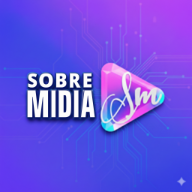
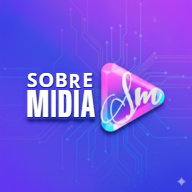
fix(marca): capa/PWA com o botão joia nítido e idêntico ao do ícone original (recortado da camada de 432 px e alinhado sobre a arte) e o nome branco nítido em Open Sans Bold, sem a sobra preta exagerada (contorno fino e suave como na original); Player 5.8.21 de TESTE e ROM v1.13 (F-216)

Changed region(s): [[0.125, 0.375, 0.5, 0.625], [0.7188, 0.4688, 0.75, 0.5], [0.5312, 0.625, 0.5625, 0.6562]]

diff --git a/scripts/marca/realce-capa-pwa.html b/scripts/marca/realce-capa-pwa.html
@@ -39,11 +39,11 @@ async function rodar() {
   window.pronto = true;
 }
 // ---------------------------------------------------------------- reconstrução do modelo 2 (PWA / capa)
-// fundo roxo com circuito e botão joia = os pixels da original (cores e textura iguais), ampliados com qualidade e com um
-// realce leve de nitidez no botão; o nome branco borrado é refeito nítido nas fontes medidas (SOBRE = Open Sans
-// ExtraBold, MIDIA = Saira Extra Condensed ExtraBold), cada letra na caixa da letra original, com o contorno e a sombra
-// azul-marinho da original
-window.mascaraNome = (escala = 1, fonteS = '800 400px "Open Sans"', fonteM = '800 400px "Saira Extra Condensed"') => {
+// fundo roxo com circuito = os pixels da original (cores e textura iguais); botão joia = o do ícone original (abaixo);
+// o nome branco borrado é refeito nítido nas fontes medidas (SOBRE = Open Sans Bold, 81% de coincidência — o ExtraBold
+// dava 72% —; MIDIA = Saira Extra Condensed ExtraBold), cada letra na caixa da letra original, com o contorno fino e a
+// sombra suave azul-marinho da original (o nome borrado antigo é apagado com a cor do fundo em volta)
+window.mascaraNome = (escala = 1, fonteS = '700 400px "Open Sans"', fonteM = '800 400px "Saira Extra Condensed"') => {
   const W = N * escala, c = canvas(W, W), x = c.getContext('2d'); x.fillStyle = '#fff';
   [['SOBRE', fonteS], ['MIDIA', fonteM]].forEach(([p, f]) => p.split('').forEach((ch, i) => { const b = CX[p][i]; x.save(); x.font = f; const m = x.measureText(ch);
     const lw = m.actualBoundingBoxLeft + m.actualBoundingBoxRight, lh = m.actualBoundingBoxAscent + m.actualBoundingBoxDescent;
@@ -53,18 +53,40 @@ window.mascaraNome = (escala = 1, fonteS = '800 400px "Open Sans"', fonteM = '80
 const tingir = (m, cor) => { const c = canvas(m.width, m.height), x = c.getContext('2d'); x.drawImage(m, 0, 0); x.globalCompositeOperation = 'source-in'; x.fillStyle = cor; x.fillRect(0, 0, c.width, c.height); return c; };
 const dilatar = (m, r) => { const c = canvas(m.width, m.height), x = c.getContext('2d'); x.filter = `blur(${r / 2}px)`; x.drawImage(m, 0, 0); x.filter = 'none';
   const im = x.getImageData(0, 0, c.width, c.height); for (let i = 3; i < im.data.length; i += 4) im.data[i] = Math.min(255, im.data[i] * 4); x.putImageData(im, 0, 0); return c; };
-window.AJ = { contorno: 9, sombraX: 2, sombraY: 5, borrao: 3, aro: 5, nitidezBotao: 0.6 };
-window.pwaRefeito = (escala = 2) => {
-  const A = window.AJ, W = N * escala, c = canvas(W, W), x = c.getContext('2d'); x.imageSmoothingQuality = 'high'; x.drawImage(PWA, 0, 0, W, W);
-  if (A.nitidezBotao > 0) { const bx = 525 * escala, by = 315 * escala, bw = 370 * escala, bh = 400 * escala;
-    const b = canvas(bw, bh), xb = b.getContext('2d'); xb.filter = `blur(${2.2 * escala}px)`; xb.drawImage(c, bx, by, bw, bh, 0, 0, bw, bh);
-    const o = x.getImageData(bx, by, bw, bh), bl = xb.getImageData(0, 0, bw, bh).data;
-    for (let i = 0; i < o.data.length; i += 4) for (let k = 0; k < 3; k++) o.data[i + k] = Math.max(0, Math.min(255, o.data[i + k] + A.nitidezBotao * (o.data[i + k] - bl[i + k])));
-    x.putImageData(o, bx, by); }
+// botão joia NÍTIDO: o mesmo botão do ícone original (camada da frente de 432 px, a versão de maior resolução dele),
+// recortado pelo contorno da joia (coincide 83% com os pixels rosa/branco/ciano dela) e posto exatamente sobre o botão
+// borrado da arte do PWA (alinhado por mínima diferença de cor: escala 1,795, deslocamento 308,5/131 em pontos de 1024)
+const FG = new Image(); FG.src = 'original-icone-frente.webp';
+const GEMA = { V: [[129.5, 93.8], [128, 339.9], [344.6, 213.7]], d: [61, 67, 62] }, ALINHA = { s: 1.795, ox: 308.5, oy: 131 };
+function caminhoGema(x, V, d, esc = 1, ox = 0, oy = 0) { x.beginPath();
+  for (let i = 0; i < 3; i++) { const p0 = V[(i + 2) % 3], p1 = V[i], p2 = V[(i + 1) % 3];
+    const v1 = [p0[0] - p1[0], p0[1] - p1[1]], v2 = [p2[0] - p1[0], p2[1] - p1[1]], l1 = Math.hypot(...v1), l2 = Math.hypot(...v2);
+    const a = [p1[0] + v1[0] / l1 * d[i], p1[1] + v1[1] / l1 * d[i]], b = [p1[0] + v2[0] / l2 * d[i], p1[1] + v2[1] / l2 * d[i]];
+    const T = (p) => [ox + p[0] * esc, oy + p[1] * esc];
+    if (i === 0) x.moveTo(...T(a)); else x.lineTo(...T(a)); x.quadraticCurveTo(...T(p1), ...T(b)); } x.closePath(); }
+// nome: contorno fino e sombra suave azul-marinho como na original (a 1ª versão tinha um contorno grosso demais)
+window.AJ = { borracha: 22, contorno: 5, sombraX: 1.5, sombraY: 4, borrao: 4, alfaSombra: 0.8, aro: 2, alfaAro: 0.55 };
+// a arte é montada já no tamanho final (escala 1 = 1024 px): nada é ampliado depois, então botão e nome ficam nítidos
+window.pwaRefeito = (escala = 0.5) => {
+  const A = window.AJ, W = Math.round(N * escala), c = canvas(W, W), x = c.getContext('2d'); x.imageSmoothingQuality = 'high'; x.drawImage(PWA, 0, 0, W, W);
+  const e = ALINHA.s * escala, ox = ALINHA.ox * escala, oy = ALINHA.oy * escala;
+  const joia = canvas(W, W), xj = joia.getContext('2d'); xj.imageSmoothingQuality = 'high';
+  caminhoGema(xj, GEMA.V, GEMA.d, e, ox, oy); xj.fillStyle = '#fff'; xj.fill();
+  xj.globalCompositeOperation = 'source-in'; xj.drawImage(e < 1 ? emEscala(FG, Math.round(432 * e), Math.round(432 * e)) : FG, ox, oy, 432 * e, 432 * e);
   const M = mascaraNome(escala);
-  x.save(); x.filter = `blur(${A.borrao * escala}px)`; x.drawImage(tingir(dilatar(M, A.contorno * escala), '#07135f'), A.sombraX * escala, A.sombraY * escala); x.restore();
-  x.save(); x.filter = `blur(${1 * escala}px)`; x.globalAlpha = 0.9; x.drawImage(tingir(dilatar(M, A.aro * escala), '#0a1868'), 0, 0); x.restore();
+  // o nome borrado antigo some por baixo de uma "borracha" da cor do fundo (o fundo da original desfocado em volta)
+  const borracha = dilatar(M, A.borracha * escala);
+  // fundo sem o nome e sem o botão: a original com os dois recortados, desfocada e normalizada (só a cor do fundo em volta)
+  const semNome = canvas(W, W), xs = semNome.getContext('2d'); xs.drawImage(PWA, 0, 0, W, W); xs.globalCompositeOperation = 'destination-out';
+  xs.drawImage(dilatar(M, (A.borracha + 18) * escala), 0, 0); caminhoGema(xs, GEMA.V, GEMA.d, e, ox, oy); xs.lineWidth = 40 * escala; xs.fill(); xs.stroke();
+  const fundoLiso = canvas(W, W), xf = fundoLiso.getContext('2d'); for (const r of [160, 60, 20]) { xf.filter = `blur(${r * escala}px)`; for (let n = 0; n < 3; n++) xf.drawImage(semNome, 0, 0); } xf.filter = 'none'; xf.drawImage(semNome, 0, 0);
+  const fl = xf.getImageData(0, 0, W, W); for (let i = 3; i < fl.data.length; i += 4) fl.data[i] = 255; xf.putImageData(fl, 0, 0);
+  const xb = borracha.getContext('2d'); xb.globalCompositeOperation = 'source-in'; xb.drawImage(fundoLiso, 0, 0);
+  x.save(); x.filter = `blur(${4 * escala}px)`; x.drawImage(borracha, 0, 0); x.drawImage(borracha, 0, 0); x.restore();
+  x.save(); x.filter = `blur(${A.borrao * escala}px)`; x.globalAlpha = A.alfaSombra; x.drawImage(tingir(dilatar(M, A.contorno * escala), '#07135f'), A.sombraX * escala, A.sombraY * escala); x.restore();
+  if (A.aro > 0) { x.save(); x.filter = `blur(${0.8 * escala}px)`; x.globalAlpha = A.alfaAro; x.drawImage(tingir(dilatar(M, A.aro * escala), '#0a1868'), 0, 0); x.restore(); }
   x.drawImage(tingir(M, '#fdfdfd'), 0, 0);
+  x.drawImage(joia, 0, 0); // o botão por último: a borracha do nome nunca encosta nele
   return c;
 };
 function emEscala(src, w, h) { let cur = src;
@@ -72,11 +94,12 @@ function emEscala(src, w, h) { let cur = src;
   const f = canvas(w, h); const x = f.getContext('2d'); x.imageSmoothingQuality = 'high'; x.drawImage(cur, 0, 0, w, h); return f; }
 const salvar = async (c, nome) => (await fetch('/salvar?nome=' + nome, { method: 'POST', body: c.toDataURL('image/png') })).text();
 window.gerarModelo2 = async () => {
-  const r = pwaRefeito(2), out = [];
-  out.push(await salvar(emEscala(r, 512, 512), 'm2_pwa-512x512.png'));
-  out.push(await salvar(emEscala(r, 192, 192), 'm2_pwa-192x192.png'));
-  // capa 16:9 (banner da TV): o meio da mesma arte (nome + botão + circuito)
-  const corte = (w, h) => { const c = canvas(w, h); c.getContext('2d').drawImage(emEscala(r, w, w), 0, -Math.round(224 * w / 1024)); return c; };
+  await new Promise((ok) => (FG.complete && FG.naturalWidth ? ok() : (FG.onload = ok)));
+  const out = [];
+  out.push(await salvar(pwaRefeito(0.5), 'm2_pwa-512x512.png'));
+  out.push(await salvar(pwaRefeito(0.1875), 'm2_pwa-192x192.png'));
+  // capa 16:9 (banner da TV): o meio da mesma arte (nome + botão + circuito), montada na largura final
+  const corte = (w, h) => { const c = canvas(w, h); c.getContext('2d').drawImage(pwaRefeito(w / 1024), 0, -Math.round(224 * w / 1024)); return c; };
   out.push(await salvar(corte(640, 360), 'm2_banner_640.png'));
   out.push(await salvar(corte(320, 180), 'm2_banner_320.png'));
   return out;

diff --git a/docs/engineering/FINDINGS_LEDGER.md b/docs/engineering/FINDINGS_LEDGER.md
@@ -2479,7 +2479,7 @@ Cadeia auditada: `ScreenDetails` (Lista de Reprodução) e `PlaylistItemsDialog`
   - Emulador com #15803D: seleção do Player com brilho verde, selo "App Oficial" verde com verificado verde, as 4 telas dos Destaques em verde-escuro e sem rótulos (`docs/engineering/f215_launcher_tudo_na_cor.png`). Conta de teste devolvida.
   - JVM 364/0; painel 25/25.
 
-### F-216 — Logos da Sobre Mídia nítidas e iguais às originais (3 modelos) + lista de reprodução fina com "Gerenciar" — DONE / Player 5.8.19 (TESTE) / ROM v1.12
+### F-216 — Logos da Sobre Mídia nítidas e iguais às originais (3 modelos) + lista de reprodução fina com "Gerenciar" — DONE / Player 5.8.21 (TESTE) / ROM v1.13
 
 - **Pedido do dono (24/10/2026):**
   - As logos são pequenas e borradas. Dar qualidade às logos ORIGINAIS, sem redesenhar: as 2 propostas de logo nova foram recusadas.
@@ -2494,9 +2494,9 @@ Cadeia auditada: `ScreenDetails` (Lista de Reprodução) e `PlaylistItemsDialog`
      - `ic_launcher_background.xml` (fundo do ícone adaptativo e das telas de login/escolha da tela) deixou o quadriculado verde do Android Studio e usa o mesmo degradê roxo do ícone original.
      - (A tentativa intermediária com fundo azul-noite e o botão da logo foi desfeita.)
   2. **Capa/PWA** (`pwa-512x512`, `pwa-maskable-512x512`, `pwa-192x192`, `drawable-*/banner.png` da TV): nome branco + botão joia sobre o roxo de circuito.
-     - O fundo, o circuito e o botão são os pixels da original (o arquivo de "512" tinha 1024 px e era uma ampliação borrada).
-     - Ampliação de qualidade e realce leve de nitidez só no botão.
-     - O nome branco borrado foi refeito nítido nas fontes medidas letra a letra: SOBRE = Open Sans ExtraBold, MIDIA = Saira Extra Condensed ExtraBold. Cada letra fica na caixa exata da original, com o contorno e a sombra azul-marinho da original.
+     - O fundo e o circuito são os pixels da original (o arquivo de "512" tinha 1024 px e era uma ampliação borrada de uma arte pequena).
+     - Botão joia (2ª correção, depois de o dono ver o botão borrado na capa da TV): é o MESMO botão do ícone original, tirado da camada da frente de 432 px (a versão de maior resolução dele). Foi recortado pelo contorno da joia, ajustado aos pixels rosa/branco/ciano dela, e posto sobre o botão borrado (alinhado por menor diferença de cor: escala 1,795). A arte é montada já no tamanho final (512, 192, 640 e 320 px), sem ampliar nada depois. Comparação: `docs/marca/f216_capa_botao_joia_antes_depois.png`.
+     - O nome branco borrado foi refeito nítido nas fontes medidas letra a letra: SOBRE = Open Sans Bold (81% de coincidência; o ExtraBold dava 72%), MIDIA = Saira Extra Condensed ExtraBold. Cada letra fica na caixa exata da original. O nome borrado antigo é apagado com a cor do fundo em volta, e o contorno azul-marinho é fino e suave: na 5.8.20 o contorno era grosso e o dono pediu para tirar essa "sobra preta exagerada".
      - Gerador: `scripts/marca/realce-capa-pwa.html`.
   3. **Logo** (`drawable-nodpi/logo.png` do Player, `logo-3d.png`, `logo-3d-white.png`, `docs/marca/logo-sobre-midia-{4x,8x}.png`, tela da ROM): nome em degradê + botão magenta/azul 3D.
      - Gerador: `scripts/marca/realce-logo.html`.
@@ -2516,3 +2516,6 @@ Cadeia auditada: `ScreenDetails` (Lista de Reprodução) e `PlaylistItemsDialog`
 - **Entrega:**
[2 lines of base64/hex data omitted]
+- **2ª entrega (botão joia nítido e nome sem a sobra preta na capa):** Player 5.8.21 (591) de TESTE e ROM v1.13 (a 5.8.20 saiu com o contorno grosso e foi substituída).
[2 lines of base64/hex data omitted]

diff --git a/docs/OPERACAO_DO_SISTEMA.md b/docs/OPERACAO_DO_SISTEMA.md
@@ -17,7 +17,7 @@ Toda mudança que afete o que está aqui exige atualizar este documento e o `scr
 4. Funcionalidade nova que precise de APK novo vai para o APK de teste. O 5.7.10 continua recebendo os comandos que já existem.
 5. `get_latest_app_release()` (o que o Player consulta) só devolve o canal estável.
 
-Versão de teste atual: **5.8.19** (código 589) — launcher Sobre Mídia (seção 8), modo nitidez (seção 6), comandos pela consulta mesmo sem o tempo real (F-199) e desvincular/vincular outro aparelho (seção 9). Versões que funcionam guardadas em `native-android-player/app/build/outputs/apk/versoes-funcionando/` (5.7.10 e 5.7.12, com LEIA-ME).
+Versão de teste atual: **5.8.21** (código 591) — launcher Sobre Mídia (seção 8), modo nitidez (seção 6), comandos pela consulta mesmo sem o tempo real (F-199) e desvincular/vincular outro aparelho (seção 9). Versões que funcionam guardadas em `native-android-player/app/build/outputs/apk/versoes-funcionando/` (5.7.10 e 5.7.12, com LEIA-ME).
 
 ## 2. Perfis e o que cada um vê
 
@@ -81,9 +81,9 @@ Nas TV Box a tela do Android trabalha em 1280x720 mesmo com a saída HDMI em 108
 
 Silenciosa com root ou Device Owner; nos demais aparelhos a versão nova fica baixada e o instalador do Android só abre quando o painel pede ("Instalar atualização agora"), com alguém ao lado da TV. Nada aparece por cima das mídias.
 
-## 8. Launcher Sobre Mídia — versão de TESTE 5.8.19 (F-200..F-216)
+## 8. Launcher Sobre Mídia — versão de TESTE 5.8.21 (F-200..F-216)
 
-- **ROM Sobre Mídia (F-214, ROM v1.12 com as logos nítidas do F-216):** ao ligar aparece sempre a tela Sobre Mídia (logo + "Sobre Mídia Player"), nunca "Selenga", até a launcher abrir. O Player vem instalado, mas só abre sozinho depois que a pessoa toca nele pela 1ª vez; depois disso abre ao ligar e segue a regra dos 3 Home.
+- **ROM Sobre Mídia (F-214, ROM v1.13 com as logos nítidas do F-216):** ao ligar aparece sempre a tela Sobre Mídia (logo + "Sobre Mídia Player"), nunca "Selenga", até a launcher abrir. O Player vem instalado, mas só abre sozinho depois que a pessoa toca nele pela 1ª vez; depois disso abre ao ligar e segue a regra dos 3 Home.
 - **Cor em tudo (F-215):** a cor escolhida também pinta o brilho da seleção, o selo "App Oficial" e as telas dos Destaques. "TV 16:9"/"TOTEM 9:16" aparecem só nos cartões de edição do painel.
 
 - **Edição no painel (F-213):** mídias dos Destaques escolhidas por **pastas** (Enviadas: Vídeos e Fotos; Biblioteca: as pastas dela), cada uma identificada pelo nome, com prévia rápida (tocar/pausar e volume) e botão **Upload**. Cada tela (TV 1, TV 2, Totem 1, Totem 2) tem um cartão com a sua **lista de reprodução**, como a playlist das telas: quantas mídias quiser, arrastar para ordenar, duração, ligar/desligar, mudar de tela e remover. **Cor do app:** a cor escolhida pinta o fundo e o app inteiro no aparelho (Player 5.8.16+). Com imagem de capa, o app continua na cor. Trocar a cor tira a capa.
